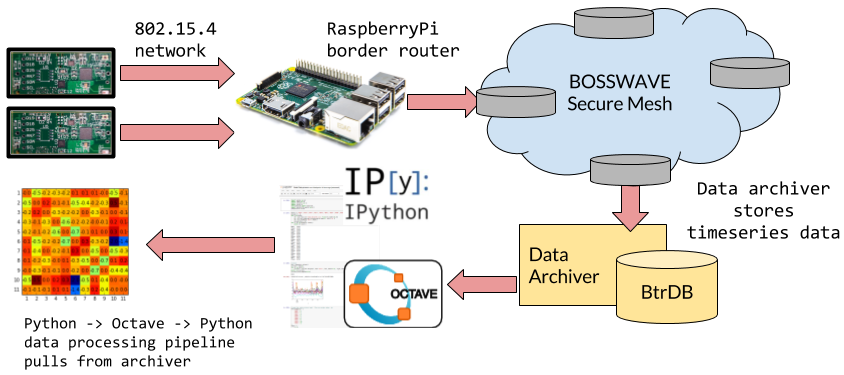
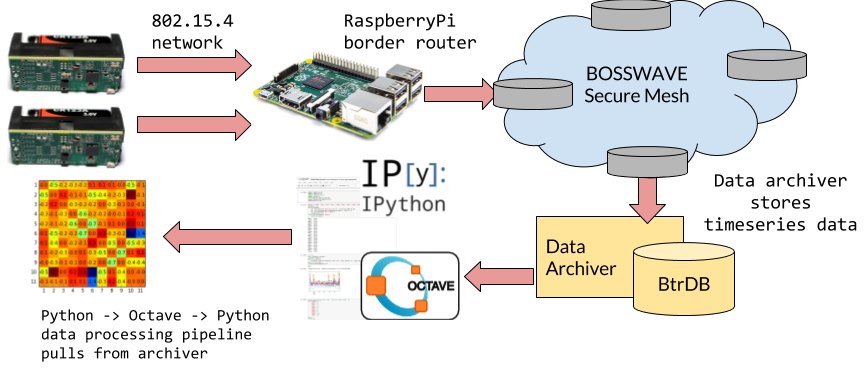
update

Changed region(s): [[0.0, 0.0, 1.0, 0.8943], [0.0308, 0.8347, 0.3081, 0.9837], [0.8318, 0.2683, 0.8626, 0.2981]]

diff --git a/report/process.tex b/report/process.tex
@@ -25,6 +25,10 @@ Problem Setup:
     - more nodes; more accurate? more sensors
 \fi
 
+
+
+\subsection{Architecture}
+
 \begin{figure}[ht]
 \centering
 \includegraphics[width=.8\linewidth]{figs/281arch}
@@ -32,10 +36,26 @@ Problem Setup:
 \label{fig:architecture}
 \end{figure}
 
+\begin{figure}[ht]
+\centering
+\includegraphics[width=.8\linewidth]{figs/temperatureplot}
+\caption{Temperature of the 11 motes in the south-west corner of AMPlab during the week 11/24/2016 to 11/30/2016. The two weekend days are clearly visible, and a good amount of temperature correlation is visible across the traces.}
+\label{fig:temperature}
+\end{figure}
 
-\subsection{Architecture}
+\textbf{Sensor Infrastructure:} For long-term distributed temperature sensing, we use the Hamilton sensor mote, recently developed at UC Berkeley by Michael Andersen~\cite{hamiltonmote}.
+The Hamilton mote has a low-cost, low-power temperature sensor which it samples at a rate of .1 Hz (once every 10 seconds); the mote is duty-cycled at a rate projected to have it last on a single CR123 battery for over 3 years.
+Each mote sends each temperature reading to a 802.15.4 border router running on a RaspberryPi 3, which forwards the message into a secure publish-subscribe network called BOSSWAVE~\cite{andersen2016enabling}.
+From here, we have fine-grained control over which services and individuals can access the temperature data.
 
-
+\textbf{Data Processing Pipeline:} The above process publishes sensor readings so that they may be consumed, but it does not actually save the data anywhere.
+This is handled by the pundat~\cite{pundat} service which saves data in the BtrDB timeseries database~\cite{andersen2016btrdb}.
+Using a set of client bindings, we can retrieve data for any set of sensors for any range of time.
+For this paper, we retrieve all the raw temperature data for the 11 Hamilton motes in the south-west corner of the AMP lab for the week of 11/24/2016 to 11/30/2016; this is roughly 48,000 data points per sensor.
+Figure~\ref{fig:temperature} contains a plot of the raw data.
+This plot tells us two things: firstly, that there are many shared trends in the measured temperature (e.g. groups of motes tend to go up or down together).
+Secondly, that the difference between two streams is likely an important differentiator, which we do not capture in our simple binary Ising model.
+Exploring the \emph{value} of a temperature reading as an indicator for thermal coupling rather than just the sign of the gradient will be the focus of future work.
 
 
 \subsection{Problem Setup}
